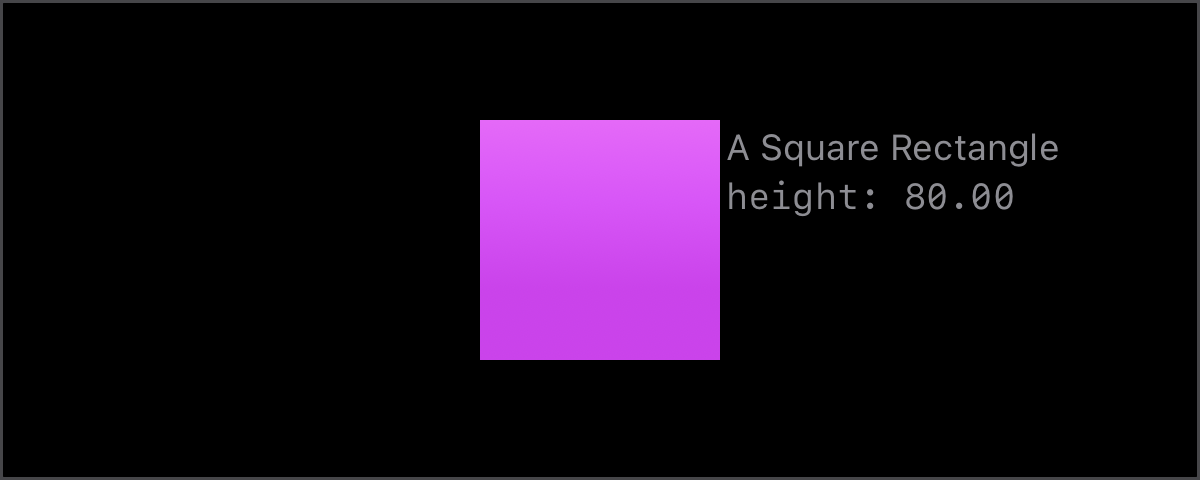
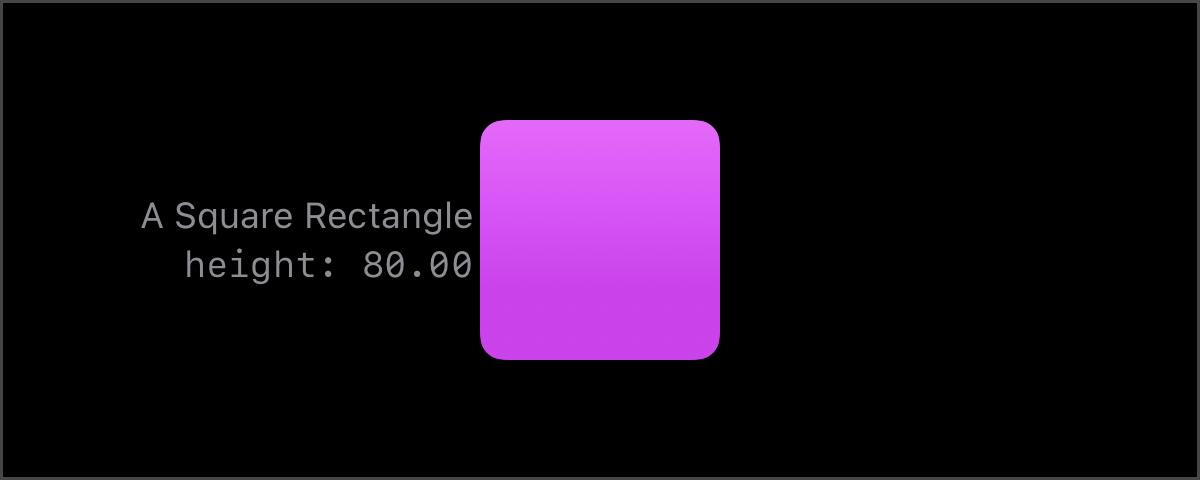
update snippet illustrations for floatingCaption

diff --git a/illustrations/IllustrationsForFloatingCaption.swift b/illustrations/IllustrationsForFloatingCaption.swift
@@ -24,18 +24,22 @@ struct IllustrationsForFloatingCaption {
         self.storage = try DocumentationResources.storage(at: "floating-caption")
     }
 
+    // FIXME: Update code for all snippets.
 
     @Test func `default`() throws {
         try storage.renderAndStore("floating-caption-default") {
-            DocumentationIllustration(height: 160) {
-                HStack {
-                    Rectangle()
+            DocumentationIllustration(sizing: .regular) {
+                VStack {
+                    RoundedRectangle(cornerRadius: 8)
                         .fill(.blue.gradient.secondary)
-                        .frame(width: 80, height: 80)
-                    Rectangle()
+                        .frame(width: 100, height: 40)
+                    RoundedRectangle(cornerRadius: 8)
                         .fill(.indigo.gradient.secondary)
-                        .frame(width: 80, height: 80)
-                        .floatingCaption("A floating caption\noverflowing the parent view")
+                        .frame(width: 100, height: 40)
+                        .floatingCaption(
+                            "A floating caption\ntrailing the owner view",
+                            alignment: .outerTrailing
+                        )
                 }
             }
         }
@@ -44,14 +48,16 @@ struct IllustrationsForFloatingCaption {
 
     @Test func traitsExplained() throws {
         try storage.renderAndStore("floating-caption-traits-explained") {
-            DocumentationIllustration(height: 160) {
-                Rectangle()
+            DocumentationIllustration(sizing: .regular) {
+                RoundedRectangle(cornerRadius: 16)
                 .fill(.purple.gradient)
                 .frame(width: 80, height: 80)
                 .floatingCaption(
-                    "A **Purple**\nSquare `Rectangle`",
-                    .alignment(.outerTrailingTop), // sets the caption alignment
-                    .height                        // prints the height of the owner view
+                    "A **Purple** square\nwith border",
+                    alignment: .outerTrailingTop,
+                    .borderStyle(.blue.secondary), // draws a border over the owner view
+                    .borderWidth(2),               // sets the width of the border
+                    .height,                       // prints the height of the owner view
                 )
             }
         }
@@ -60,13 +66,13 @@ struct IllustrationsForFloatingCaption {
 
     @Test func styleAndBorder() throws {
         try storage.renderAndStore("floating-caption-style-and-border") {
-            DocumentationIllustration(height: 160) {
+            DocumentationIllustration(sizing: .regular) {
                 Circle()
                 .fill(.tertiary)
                 .frame(width: 80, height: 80)
                 .floatingCaption(
                     "A `Circle` Shape",
-                    .alignment(.outerLeadingBottom),
+                    alignment: .outerLeadingBottom,
                     .captionStyle(.purple),
                     .borderStyle(.indigo.tertiary),
                     .borderWidth(4)
@@ -78,11 +84,11 @@ struct IllustrationsForFloatingCaption {
 
     @Test func simpleTraits() throws {
         try storage.renderAndStore("floating-caption-simple-traits") {
-            DocumentationIllustration(height: 160) {
-                Rectangle()
+            DocumentationIllustration(sizing: .regular) {
+                RoundedRectangle(cornerRadius: 8)
                 .fill(.purple.gradient)
                 .frame(width: 80, height: 80)
-                .floatingCaption("A Square Rectangle", .height, .alignment(.outerTrailingTop))
+                .floatingCaption("A Square Rectangle", alignment: .outerLeading, .height)
             }
         }
     }
@@ -90,16 +96,16 @@ struct IllustrationsForFloatingCaption {
 
     @Test func readmeTraits() throws {
         try storage.renderAndStore("floating-caption-readme-traits") {
-            DocumentationIllustration(height: 160) {
+            DocumentationIllustration(sizing: .regular) {
                 Circle()
                 .fill(.tertiary)
                 .frame(width: 80, height: 80)
                 .floatingCaption(
-                    "A `Circle` Shape",              // caption localized string
-                    .height,                         // prints the height of the owner view
-                    .alignment(.outerLeadingBottom), // sets the caption alignment
-                    .colorStyle(.indigo),            // sets the caption and border color
-                    .borderWidth(4)                  // sets the border width
+                    "A `Circle` Shape",             // caption localized string
+                    alignment: .outerLeadingBottom, // the caption alignment
+                    .height,                        // prints the height of the owner view
+                    .colorStyle(.indigo),           // sets the caption and border color
+                    .borderWidth(4)                 // sets the border width
                 )
             }
         }

diff --git a/sources/illustrations/CardIllustrations.swift b/sources/illustrations/CardIllustrations.swift
@@ -72,14 +72,13 @@ struct CardIllustrations {
     static var floatingCaption: DocumentationIllustration {
         DocumentationIllustration(sizing: .card.half, drawsBorder: false) {
             RoundedRectangle(cornerRadius: 44)
-                .fill(.tertiary)
+            .fill(.tertiary)
             .frame(size: contentSize)
             .floatingCaption(
                 "Floating Caption",
-                .captionStyle(.purple),
-                .borderStyle(.purple.secondary),
-                .borderWidth(4),
-                .alignment(.outerBottomTrailing)
+                alignment: .outerBottomTrailing,
+                .colorStyle(.purple),
+                .borderWidth(4)
             )
         }
     }
